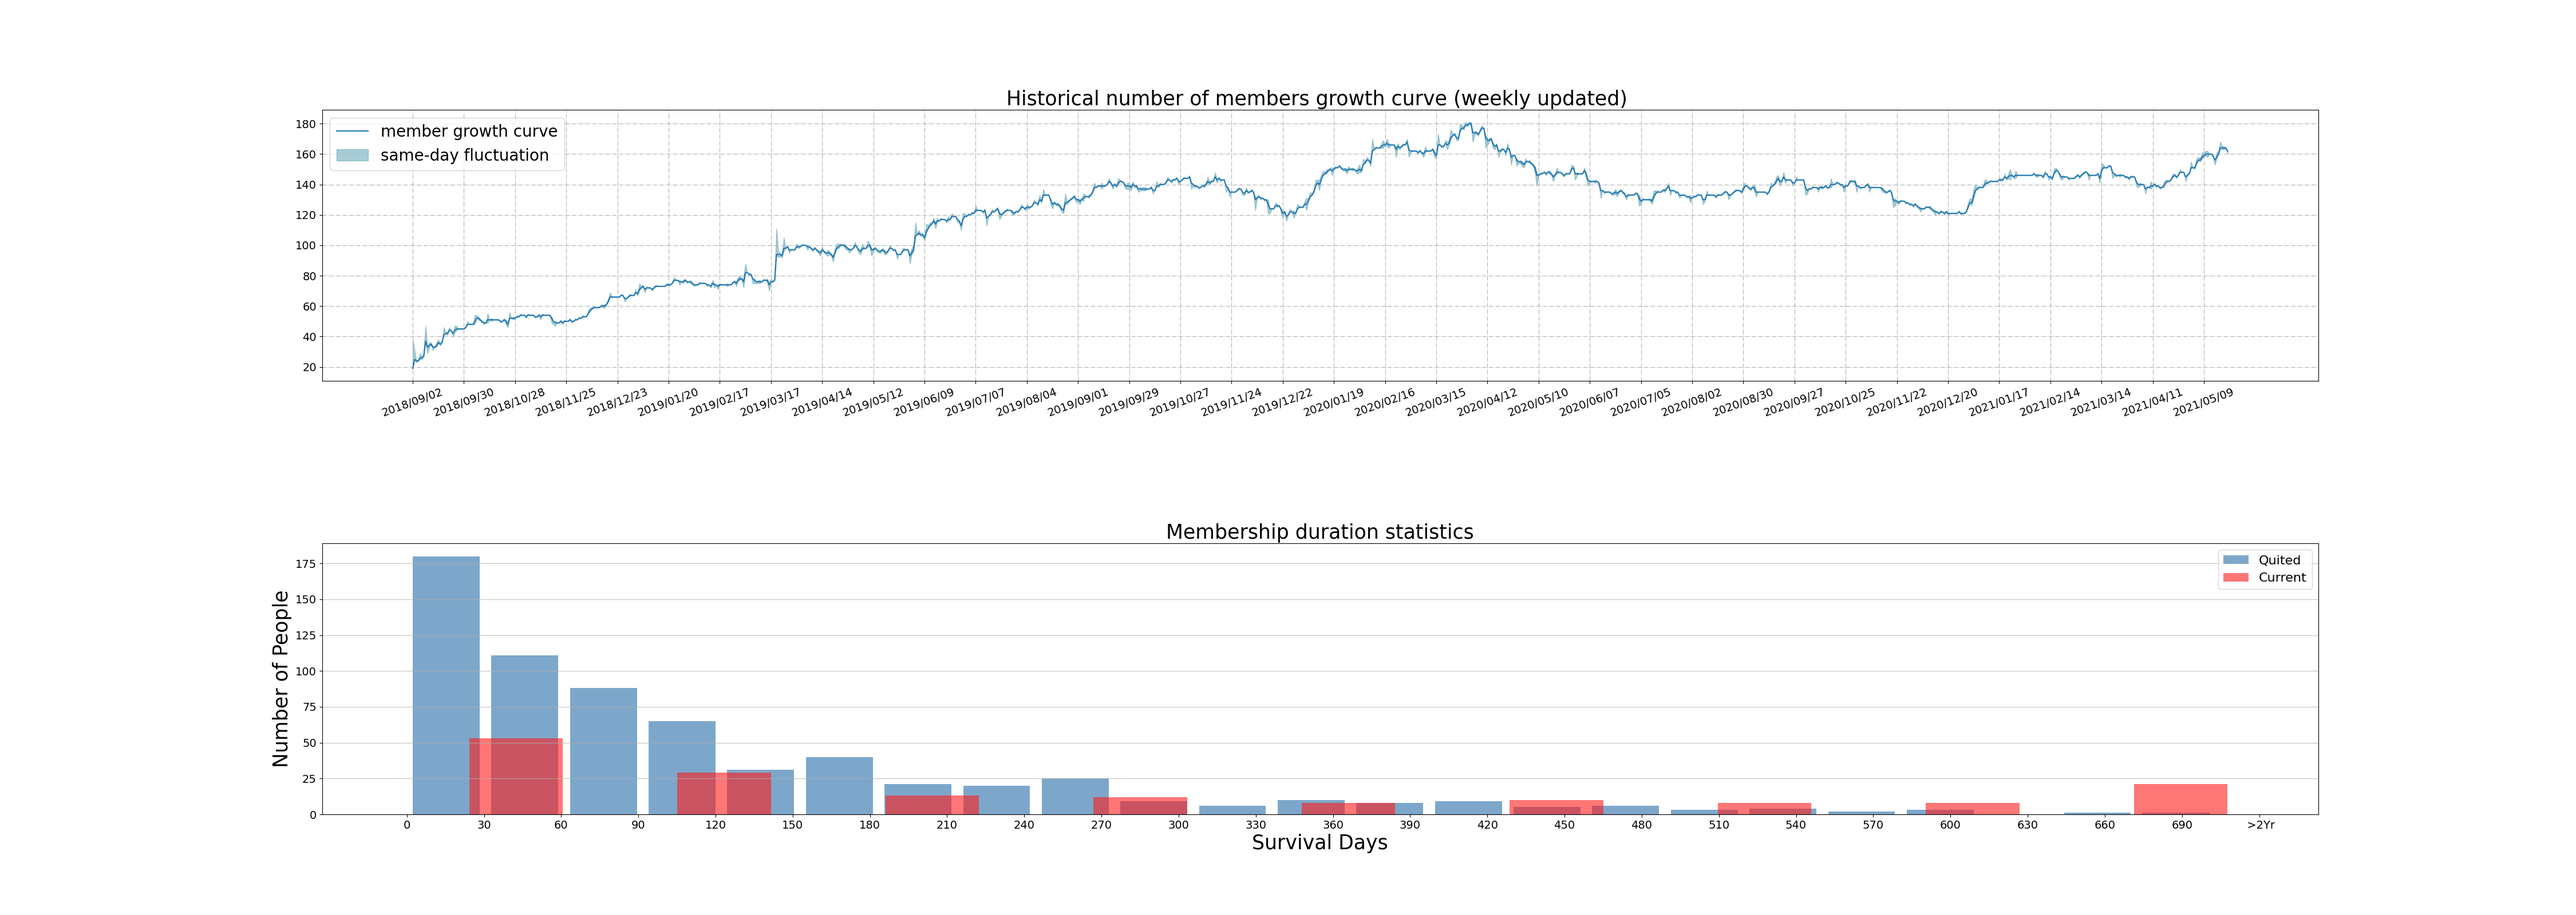
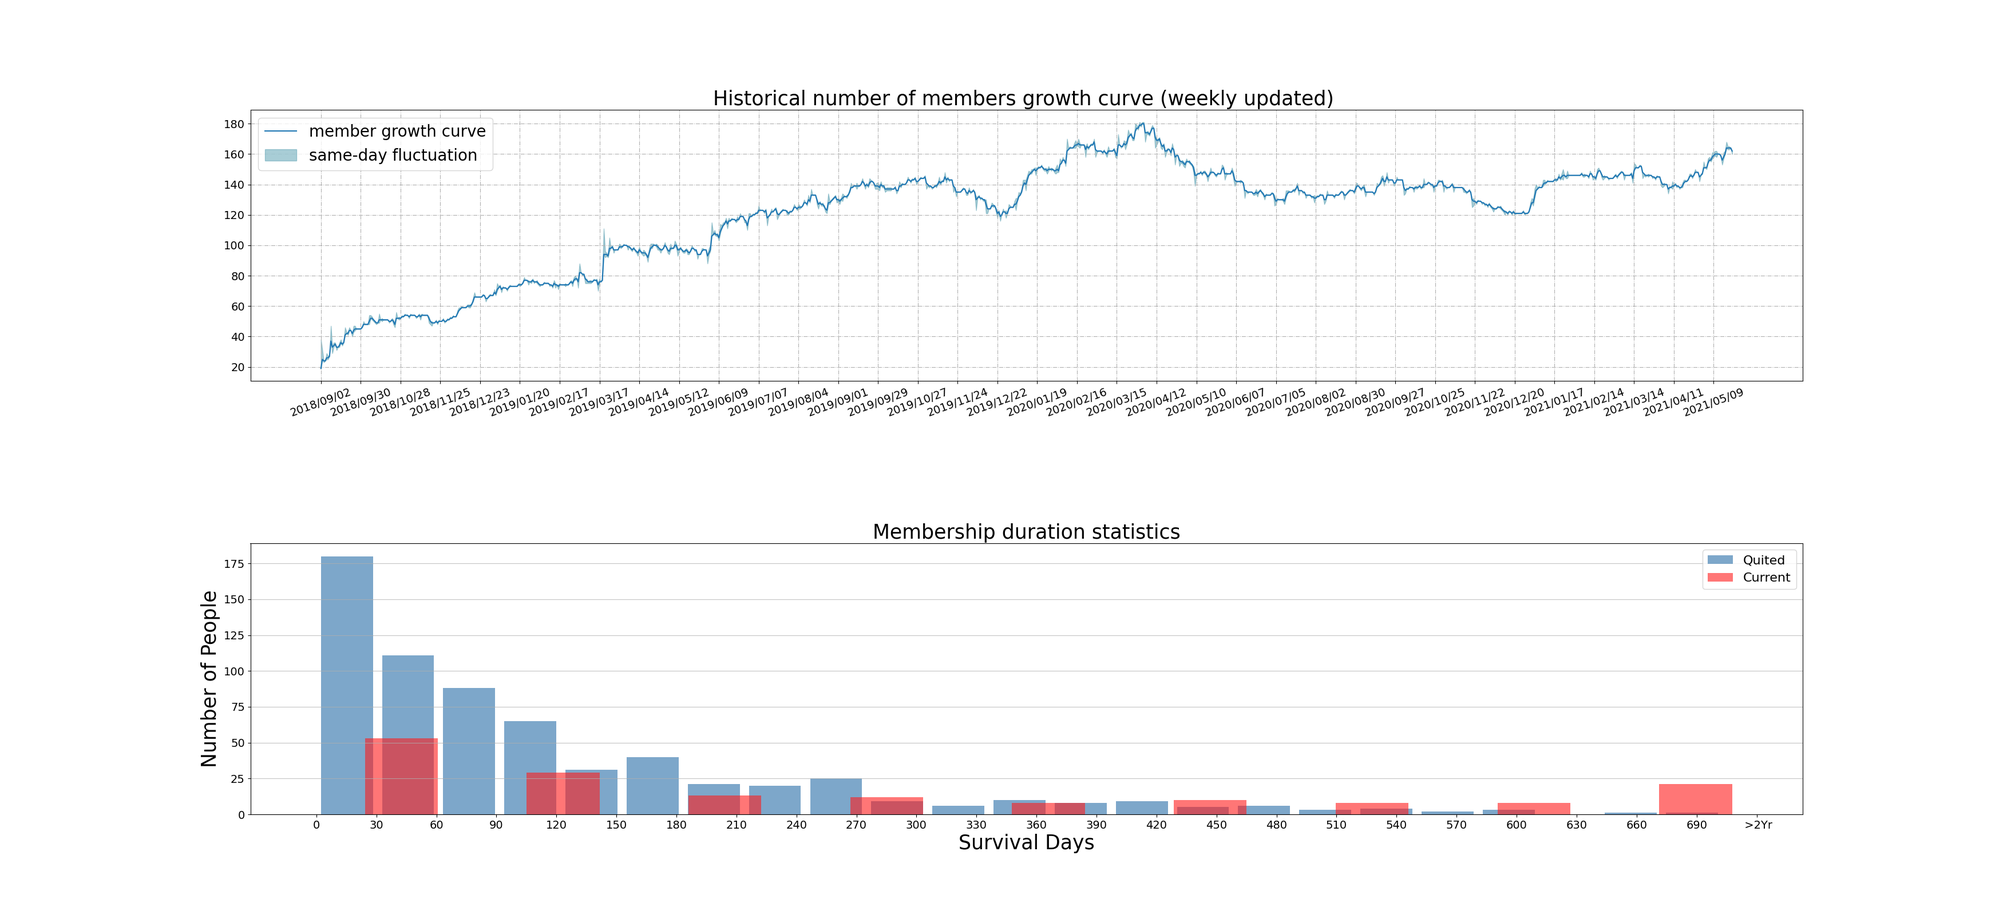
contest 242

diff --git a/generateEXCEL/Data/PlotGroupCurve.py b/generateEXCEL/Data/PlotGroupCurve.py
@@ -77,7 +77,7 @@ for i in range(len(Days)):
     print(Days[i]," ",Nums[i])
 
 
-plt.figure(21,figsize=(45,16))
+plt.figure(21,figsize=(35,16))
 
 plt.subplot(211)
 plt.plot(Nums, label = 'member growth curve')
